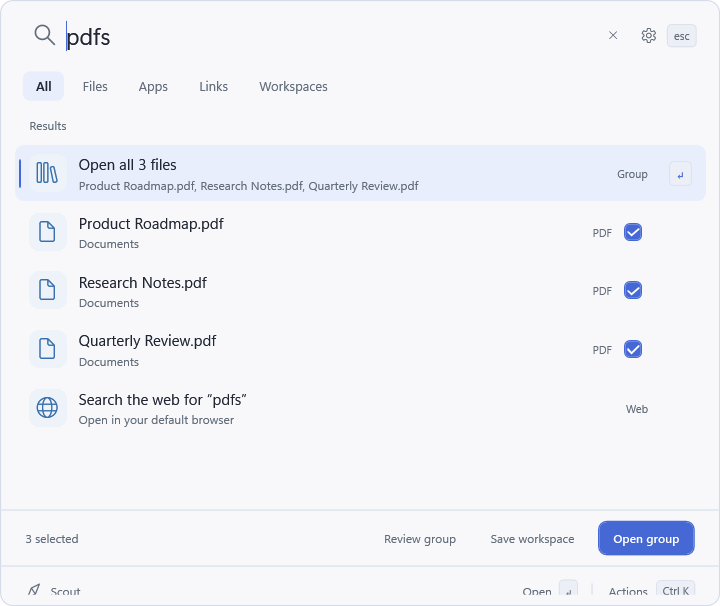
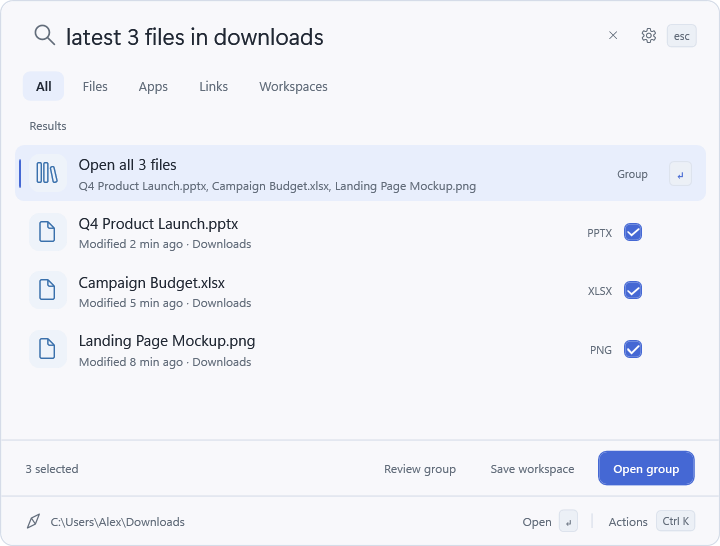
Show Scout arrival search and grouped Downloads demo

diff --git a/index.html b/index.html
@@ -33,14 +33,14 @@
     <section class="hero shell" id="top" aria-labelledby="hero-title">
       <p class="eyebrow">A simpler way around your PC</p>
       <h1 id="hero-title">Find anything.<br>Keep moving.</h1>
-      <p class="hero-description">Files, apps, and workspaces are one shortcut away. Scout helps you find what you need and get back to it.</p>
+      <p class="hero-description">Remember downloading a file, but not its name? Describe what happened. Scout brings the right result forward and helps you get back to work.</p>
       <div class="hero-actions">
         <a class="button button-primary" href="#download">Get Scout for Windows <span aria-hidden="true">↗</span></a>
         <span>Free beta for Windows 11</span>
       </div>
       <figure class="product-preview">
-        <img src="scout-search.png" width="720" height="490" alt="Scout search showing matching PDF files and a selected result" fetchpriority="high">
-        <figcaption>Press <kbd>Ctrl</kbd> + <kbd>Alt</kbd> + <kbd>Space</kbd> and start typing.</figcaption>
+        <img src="scout-search.png" width="720" height="490" alt="Scout searching for the PDF just downloaded, with Product Roadmap.pdf first and its download time shown" fetchpriority="high">
+        <figcaption>Search by what you remember: “the pdf I just downloaded.”</figcaption>
       </figure>
     </section>
 
@@ -53,7 +53,7 @@
         <article>
           <span class="feature-index">01</span>
           <h3>Search naturally</h3>
-          <p>Find a file by name, type, folder, or date. Search apps and links from the same place.</p>
+          <p>Find a file by name, type, folder, or when it arrived. Search apps and links from the same place.</p>
         </article>
         <article>
           <span class="feature-index">02</span>
@@ -70,12 +70,12 @@
 
     <section class="workspace-section shell" aria-labelledby="workspace-title">
       <div class="workspace-image">
-        <img src="scout-group.png" width="720" height="606" alt="Scout displaying a selected group of three files that can be saved as a workspace" loading="lazy">
+        <img src="scout-group.png" width="720" height="606" alt="Scout searching for the latest three files in Downloads and grouping a presentation, spreadsheet, and mockup" loading="lazy">
       </div>
       <div class="workspace-copy">
         <p class="eyebrow">A little more room to work</p>
         <h2 id="workspace-title">Your work, ready when you are.</h2>
-        <p>Sometimes one result is enough. Sometimes you need the whole set. Review a group of files, save it as a workspace, and open it on your terms.</p>
+        <p>Ask for the latest three files in Downloads. Scout gathers the presentation, spreadsheet, and mockup into one group. Review them, open them together, or save the set as a workspace.</p>
       </div>
     </section>
 
